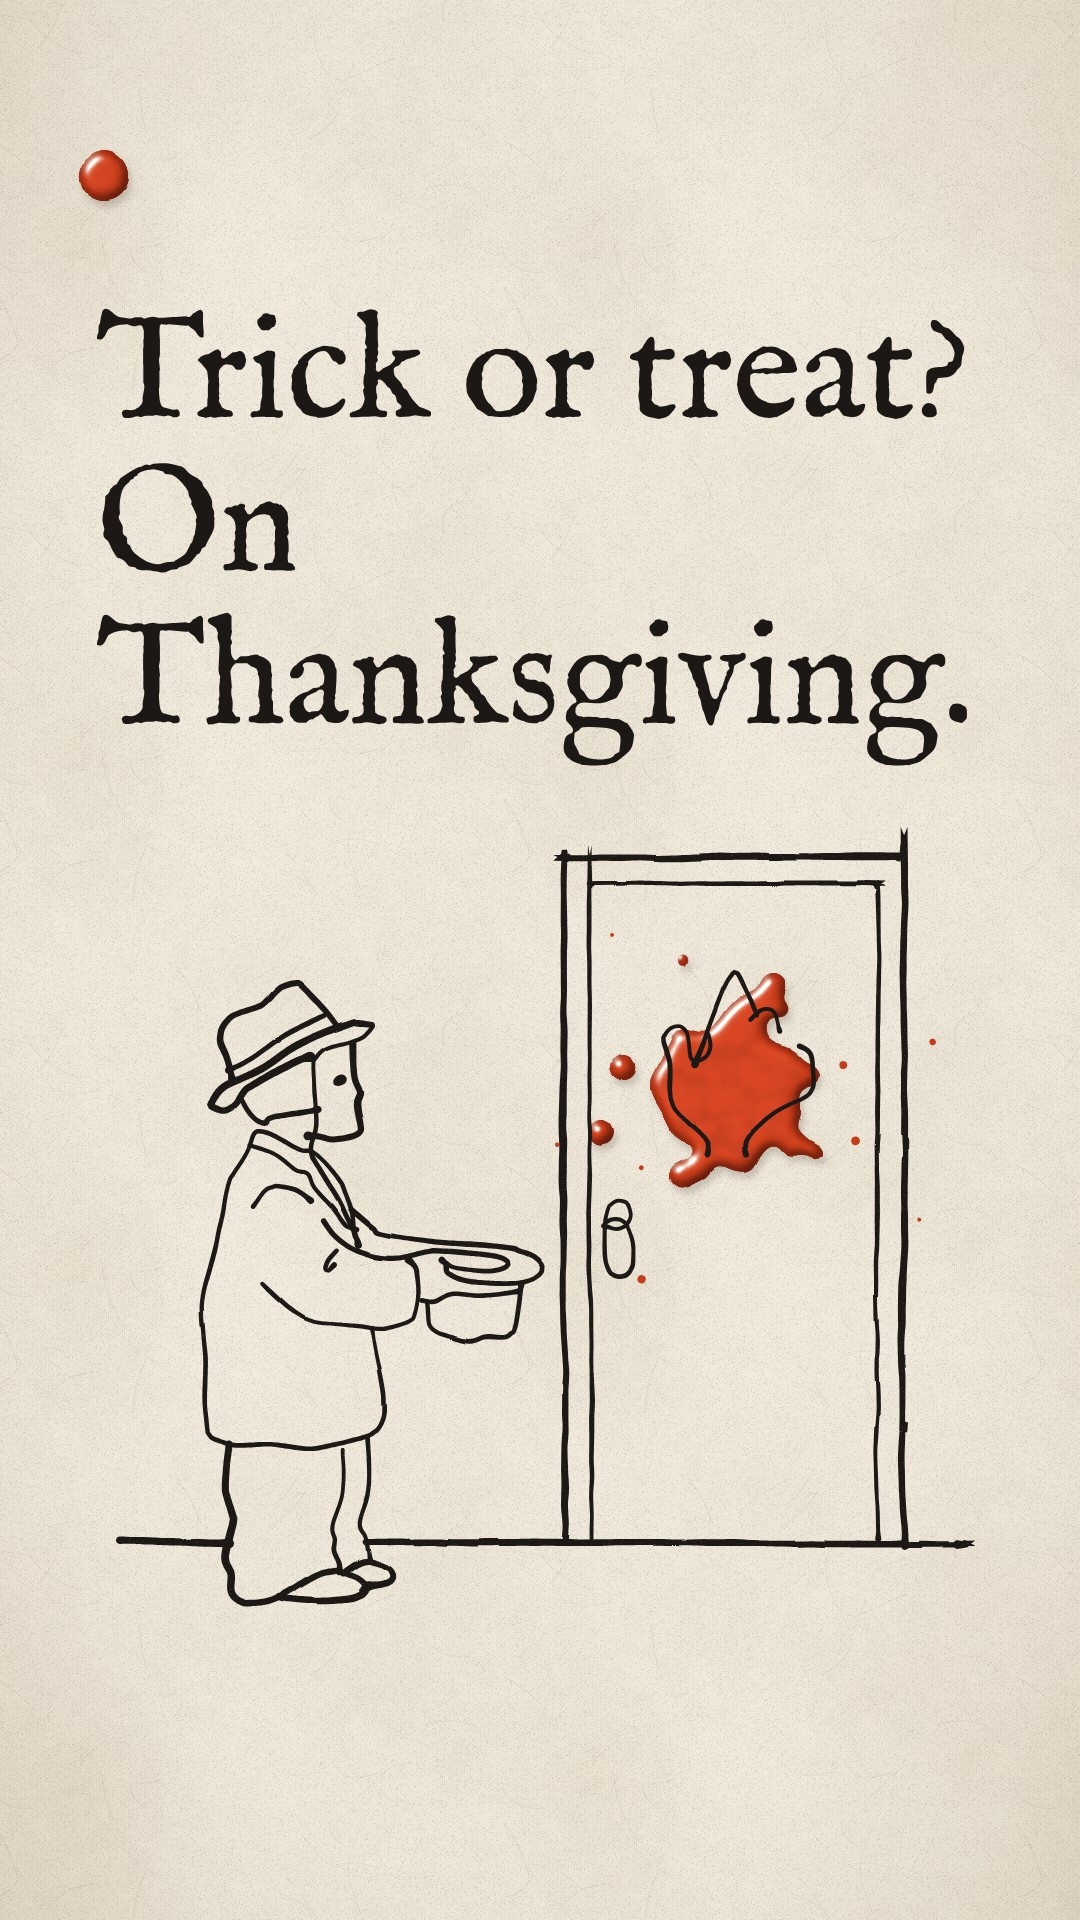
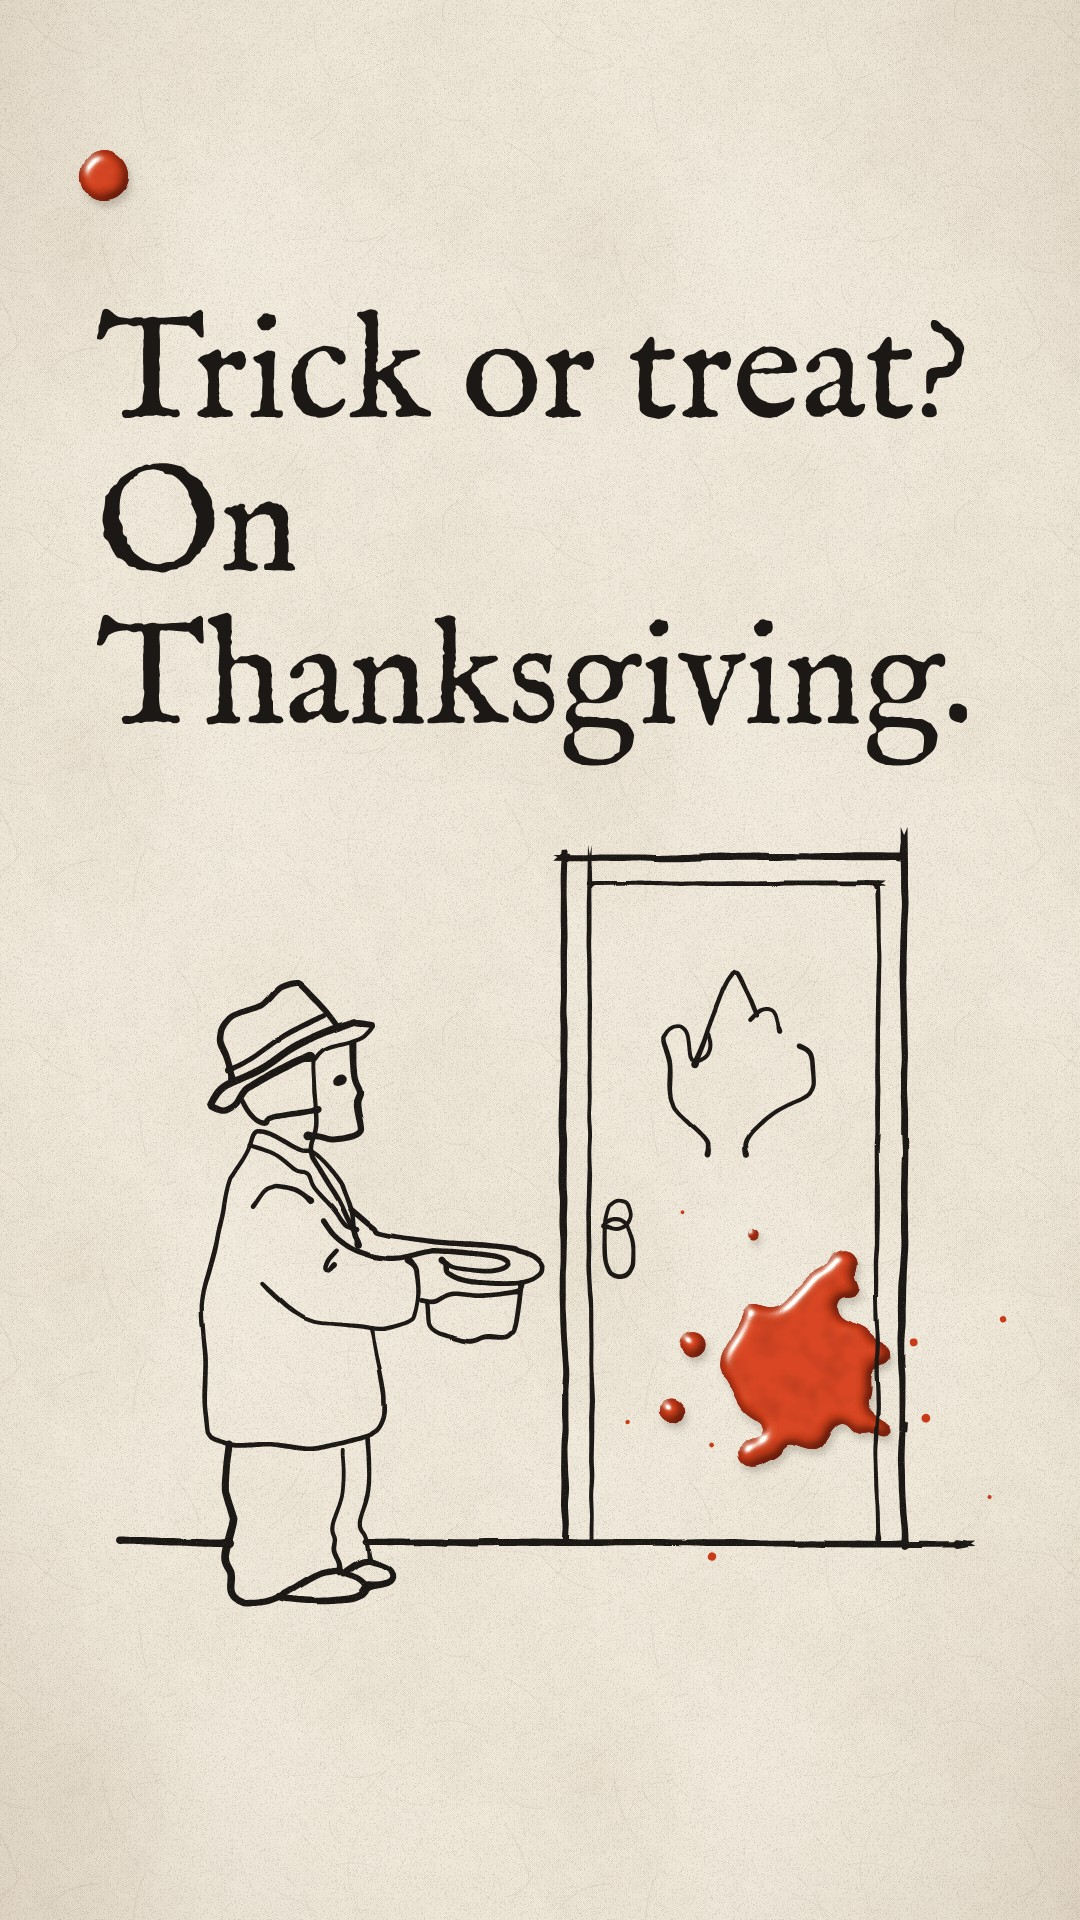
11: cover paint off the turkey
Claude-Session: https://claude.ai/code/session_015VaSP1oJDutRL47vjmUuCK

Changed region(s): [[0.6111, 0.625, 0.825, 0.7812], [0.55, 0.5, 0.7639, 0.625]]

diff --git a/stories/11-ragamuffin-day/layout.py b/stories/11-ragamuffin-day/layout.py
@@ -107,7 +107,7 @@ for sc in shots['scenes']:
 
 layout = {
     'style': {'ink': 6.4, 'inner': 0.68, 'minLen': 16, 'boil': 0.35, 'boilFps': 4, 'reel': {'on': True}, 'hangIntro': True},
-    'cover': {'words': ['Trick or treat?', 'On Thanksgiving.'], 'art': 'ragamuffin', 'at': frac('ragamuffin', 695, 384),
+    'cover': {'words': ['Trick or treat?', 'On Thanksgiving.'], 'art': 'ragamuffin', 'at': frac('ragamuffin', 760, 640),
               'x': 540, 'y': 1230, 'w': 860, 'R': 70},
     'scenes': scenes,
 }
